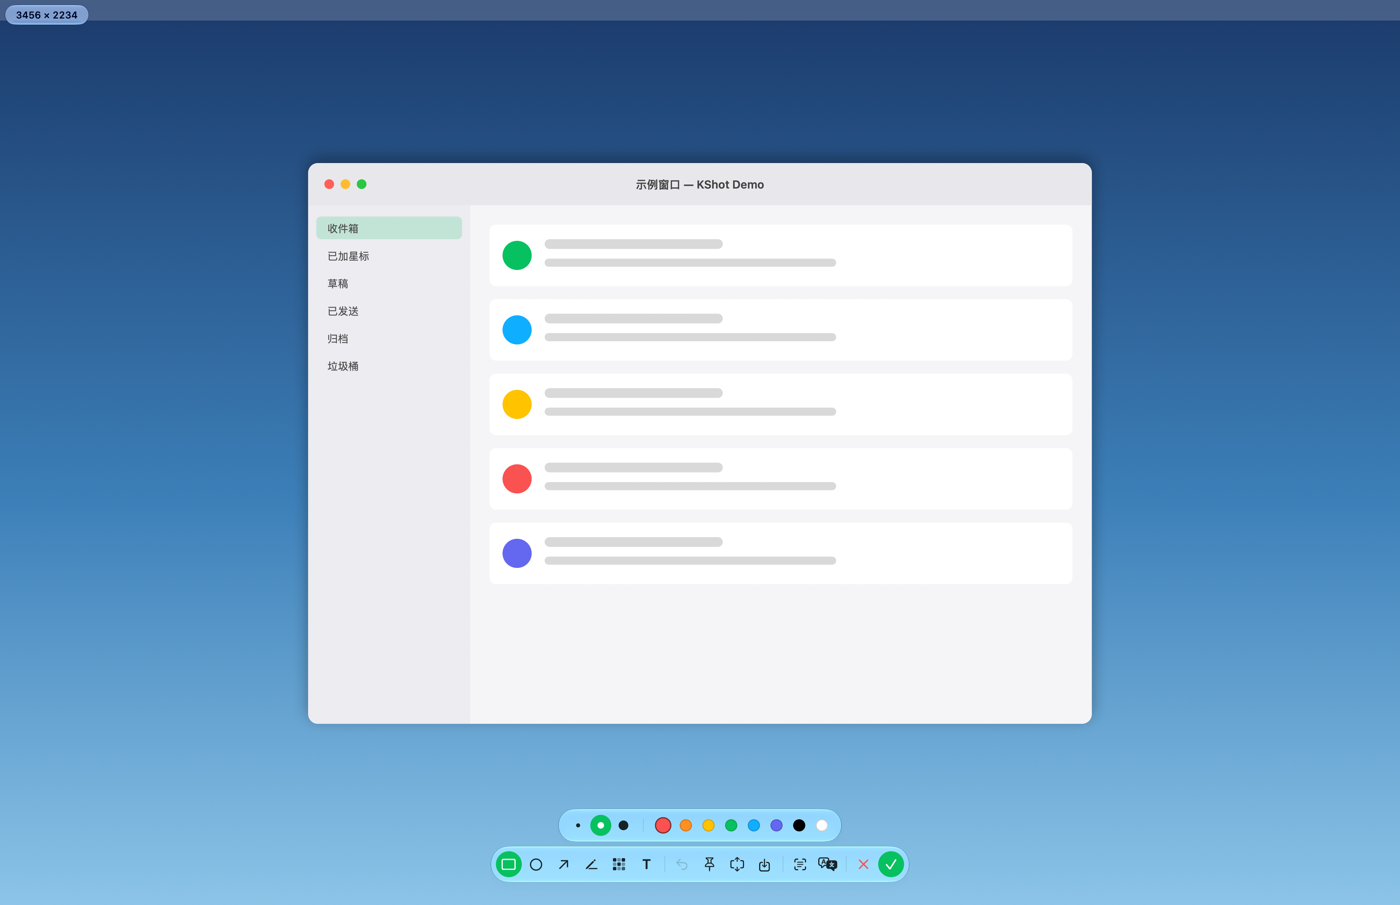
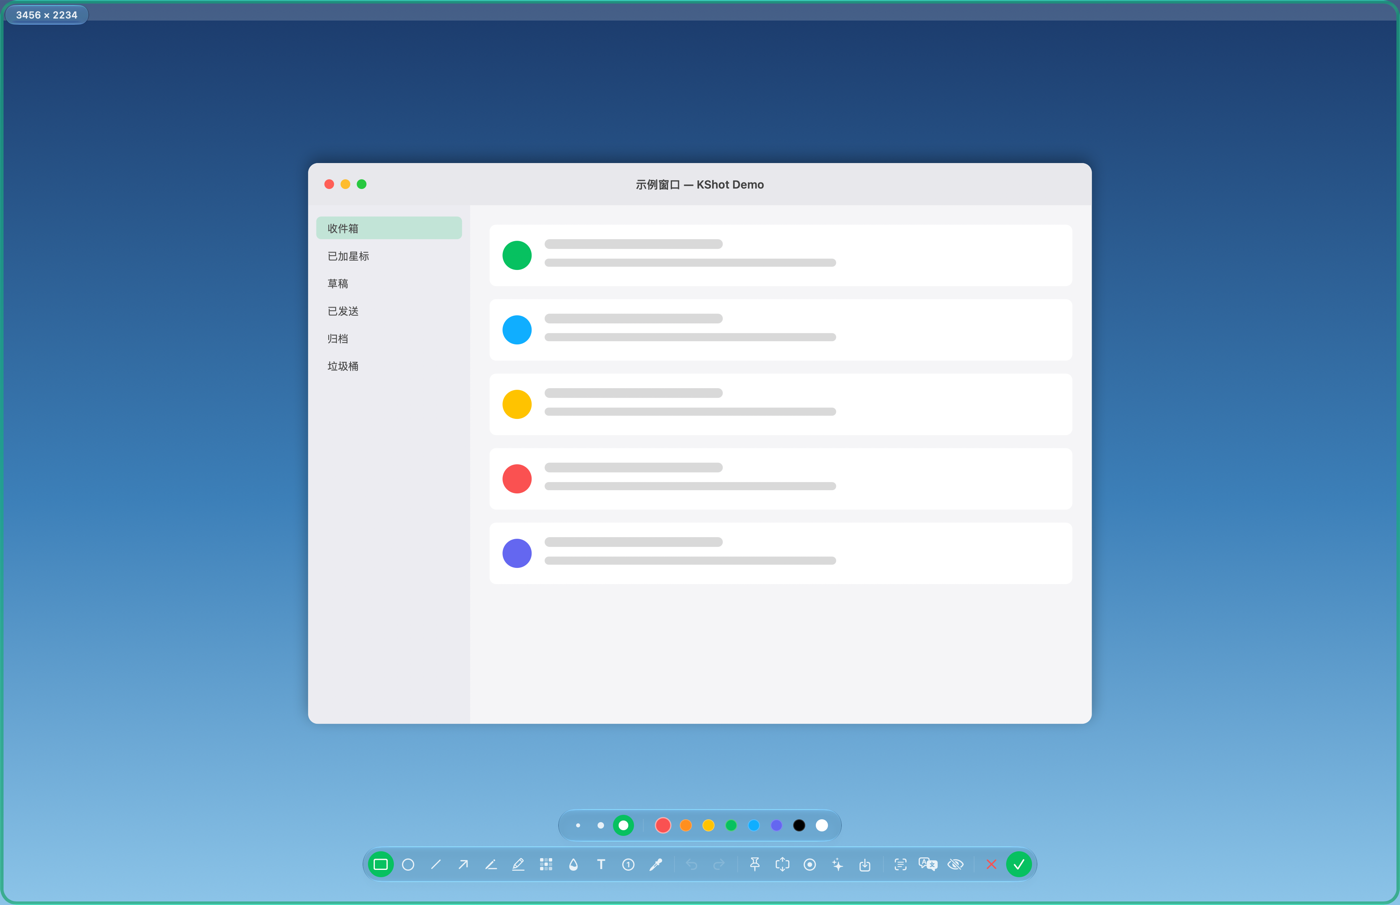
修复历史菜单预览缩略图并更新文档截图
- 历史菜单预览改为按需解码，缓存缺失时回退原图，并固定预览区域避免拉伸
- macOS 27 下强制显示菜单图片
- 录屏自测新增 --demo 示例桌面模式，重新生成不含隐私的文档截图
- 自测流程补充点击窗口步骤

Changed region(s): [[0.0, 0.0, 1.0, 1.0]]

diff --git a/Sources/KShot/History.swift b/Sources/KShot/History.swift
@@ -74,6 +74,21 @@ enum History {
         return CGImageSourceCreateImageAtIndex(src, 0, nil)
     }
 
+    /// 优先读取缓存；旧记录的缓存缺失或损坏时，从原图按需解码小图。
+    static func preview(_ item: Item) -> CGImage? {
+        let options: [CFString: Any] = [
+            kCGImageSourceCreateThumbnailFromImageAlways: true,
+            kCGImageSourceThumbnailMaxPixelSize: 240,
+            kCGImageSourceCreateThumbnailWithTransform: true,
+        ]
+        for url in [item.thumbURL, item.url] {
+            guard let source = CGImageSourceCreateWithURL(url as CFURL, nil),
+                  let image = CGImageSourceCreateThumbnailAtIndex(source, 0, options as CFDictionary) else { continue }
+            return image
+        }
+        return nil
+    }
+
     private static func prune(limit: Int) {
         for item in items().dropFirst(limit) {
             try? FileManager.default.removeItem(at: item.url)
@@ -116,12 +131,23 @@ final class HistoryMenu: NSObject, NSMenuDelegate {
             let mi = NSMenuItem(title: title, action: #selector(copyItem(_:)), keyEquivalent: "")
             mi.target = self
             mi.tag = i
-            mi.toolTip = "单击复制；子菜单里可以钉住、编辑、在 Finder 中显示"
-            if let thumb = NSImage(contentsOf: item.thumbURL) {
-                let h: CGFloat = 36
-                let w = min(72, max(24, thumb.size.width / max(1, thumb.size.height) * h))
-                thumb.size = NSSize(width: w, height: h)
-                mi.image = thumb
+            mi.toolTip = "展开子菜单可复制、钉住、编辑或在 Finder 中显示"
+            if let preview = History.preview(item) {
+                let size = NSSize(width: 96, height: 60)
+                let thumb = NSImage(cgImage: preview, size: .zero)
+                let scale = min(size.width / CGFloat(preview.width), size.height / CGFloat(preview.height))
+                let fitted = NSSize(width: CGFloat(preview.width) * scale, height: CGFloat(preview.height) * scale)
+                // 固定预览区域，完整显示横图、竖图和长截图，避免拉伸。
+                mi.image = NSImage(size: size, flipped: false) { bounds in
+                    let rect = NSRect(x: bounds.midX - fitted.width / 2, y: bounds.midY - fitted.height / 2,
+                                      width: fitted.width, height: fitted.height)
+                    thumb.draw(in: rect)
+                    return true
+                }
+                // macOS 27 默认隐藏菜单图片；截图预览需要始终可见。
+                if #available(macOS 27.0, *) {
+                    mi.preferredImageVisibility = .visible
+                }
             }
             let sub = NSMenu()
             func add(_ t: String, _ sel: Selector) {

diff --git a/Sources/KShot/FeatureTests.swift b/Sources/KShot/FeatureTests.swift
@@ -303,18 +303,31 @@ enum FeatureTests {
         let p = spec.split(separator: ",").compactMap { Double($0) }
         guard p.count == 4, let screen = NSScreen.main else { return }
         let rect = CGRect(x: p[0], y: p[1], width: p[2], height: p[3])
-        // 录一个会动的示例窗口
-        let demo = NSWindow(contentRect: screen.cocoaRect(fromLocal: rect), styleMask: .borderless, backing: .buffered, defer: false)
-        let label = NSTextField(labelWithString: "0")
-        label.font = .monospacedDigitSystemFont(ofSize: 80, weight: .bold)
-        label.frame = CGRect(x: 20, y: 20, width: rect.width - 40, height: 100)
-        demo.contentView?.addSubview(label)
-        demo.backgroundColor = .white
-        demo.level = .floating
-        demo.orderFrontRegardless()
-        var n = 0
-        Timer.scheduledTimer(withTimeInterval: 0.1, repeats: true) { _ in
-            MainActor.assumeIsolated { n += 1; label.stringValue = "\(n)" }
+        // 演示模式：铺一层示例桌面，便于生成不含隐私的录屏截图
+        let demoMode = CommandLine.arguments.contains("--demo")
+        if demoMode, let (shot, _) = DemoScene.make(for: screen) {
+            let bg = NSWindow(contentRect: screen.frame, styleMask: .borderless, backing: .buffered, defer: false)
+            bg.isReleasedWhenClosed = false
+            let iv = NSImageView(frame: CGRect(origin: .zero, size: screen.frame.size))
+            iv.image = NSImage(cgImage: shot.image, size: screen.frame.size)
+            iv.imageScaling = .scaleAxesIndependently
+            bg.contentView = iv
+            bg.orderFrontRegardless()
+        }
+        // 录一个会动的示例窗口（演示模式直接录示例桌面）
+        if !demoMode {
+            let demo = NSWindow(contentRect: screen.cocoaRect(fromLocal: rect), styleMask: .borderless, backing: .buffered, defer: false)
+            let label = NSTextField(labelWithString: "0")
+            label.font = .monospacedDigitSystemFont(ofSize: 80, weight: .bold)
+            label.frame = CGRect(x: 20, y: 20, width: rect.width - 40, height: 100)
+            demo.contentView?.addSubview(label)
+            demo.backgroundColor = .white
+            demo.level = .floating
+            demo.orderFrontRegardless()
+            var n = 0
+            Timer.scheduledTimer(withTimeInterval: 0.1, repeats: true) { _ in
+                MainActor.assumeIsolated { n += 1; label.stringValue = "\(n)" }
+            }
         }
         guard let rec = ScreenRecorder.start(screen: screen, region: rect) else { return }
         rec.format = CommandLine.arguments.contains("--gif") ? .gif : .mp4

diff --git a/Sources/KShot/OverlayView.swift b/Sources/KShot/OverlayView.swift
@@ -1137,6 +1137,7 @@ final class SelfTest {
             t.add("fullscreen-select") { o.debugClick(at: CGPoint(x: 60, y: 300)) }
             return t
         }
+        t.add("click-window") { o.debugClick(at: c) }
         if CommandLine.arguments.contains("--loupe-test") {
             t.add("loupe-on") {
                 o.debugAction(.loupe)
